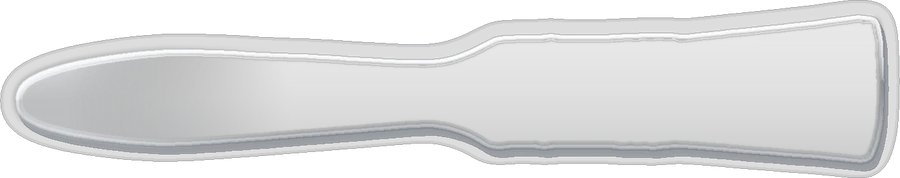
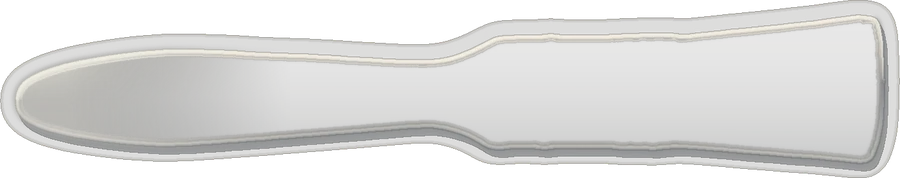
Blister: plastica e riflessi color crema invece che bianchi
La bolla attorno al pennello e i riflessi del blister prendono il crema
del sito (#F6F0E4): niente più contorno bianco dietro il pennello.

diff --git a/site/componenti/blister-shop.js b/site/componenti/blister-shop.js
@@ -69,7 +69,7 @@ a{display:block;color:inherit;text-decoration:none;outline:none;-webkit-user-dra
    passa sopra il fondo e il logo ma sotto le scritte, il prodotto e la plastica (che hanno i loro riflessi fermi) */
 :host(:not([chiaro])) .blister::after{display:none}   /* il riflesso che scorre resta solo sul cartoncino bianco */
 .blister::after{content:"";position:absolute;inset:0;z-index:0;pointer-events:none;
-  background:linear-gradient(105deg,rgba(20,24,30,0) 24%,rgba(20,24,30,.09) 35%,rgba(255,255,255,.62) 44%,rgba(255,255,255,.18) 49%,rgba(255,255,255,0) 57%) calc(50% + var(--gx) * 1.3) 0/220% 100% no-repeat}
+  background:linear-gradient(105deg,rgba(20,24,30,0) 24%,rgba(20,24,30,.09) 35%,rgba(246,240,228,.62) 44%,rgba(246,240,228,.18) 49%,rgba(246,240,228,0) 57%) calc(50% + var(--gx) * 1.3) 0/220% 100% no-repeat}
 .logo{position:absolute;z-index:0;right:-8px;top:26px;height:172px;aspect-ratio:553/518;background:color-mix(in oklab,var(--fondo) 80%,#F6F0E4);opacity:.75;
   -webkit-mask:var(--logo) 0 0/100% 100% no-repeat;mask:var(--logo) 0 0/100% 100% no-repeat}
 :host([chiaro]) .logo{background:#E9E1D0;opacity:1}
@@ -86,9 +86,9 @@ a{display:block;color:inherit;text-decoration:none;outline:none;-webkit-user-dra
 .pezzo .bolla{transform:translateX(clamp(-2px, var(--gx) * -.08, 2px));filter:drop-shadow(clamp(1px, 3px + var(--gx) * .1, 6px) 7px 7px rgba(0,0,0,.22))}
 .pezzo .riflesso{position:absolute;inset:0;transform:translateX(clamp(-5px, var(--gx) * -.2, 5px));pointer-events:none;mix-blend-mode:screen;opacity:.55;
   -webkit-mask:var(--prod) 0 0/100% 100% no-repeat;mask:var(--prod) 0 0/100% 100% no-repeat;
-  background:linear-gradient(100deg,rgba(255,255,255,0) 40%,rgba(255,255,255,.55) 47%,rgba(255,255,255,0) 54%) 30% 0/260% 100% no-repeat}
+  background:linear-gradient(100deg,rgba(246,240,228,0) 40%,rgba(246,240,228,.55) 47%,rgba(246,240,228,0) 54%) 30% 0/260% 100% no-repeat}
 .pezzo .lucido{position:absolute;inset:0;-webkit-mask:var(--bolla) 0 0/100% 100% no-repeat;mask:var(--bolla) 0 0/100% 100% no-repeat;
-  background:linear-gradient(100deg,rgba(255,255,255,0) 38%,rgba(255,255,255,.7) 46%,rgba(255,255,255,0) 52%,rgba(255,255,255,0) 60%,rgba(255,255,255,.35) 63%,rgba(255,255,255,0) 66%) 50% 0/240% 100% no-repeat}   /* fermo: non esce dalla bolla inclinando */
+  background:linear-gradient(100deg,rgba(246,240,228,0) 38%,rgba(246,240,228,.7) 46%,rgba(246,240,228,0) 52%,rgba(246,240,228,0) 60%,rgba(246,240,228,.35) 63%,rgba(246,240,228,0) 66%) 50% 0/240% 100% no-repeat}   /* fermo: non esce dalla bolla inclinando */
 .vai{position:absolute;z-index:3;left:16px;bottom:14px;display:inline-flex;align-items:center;gap:9px;font:700 15px/1 var(--f-testo,"Figtree",system-ui,sans-serif);letter-spacing:-.01em}
 .vai i{display:grid;place-items:center;width:26px;height:26px;border-radius:50%;background:#F6F0E4;color:var(--cs);transition:transform .3s var(--ease),background .3s var(--ease),color .3s var(--ease)}
 :host([chiaro]) .vai i{background:#15171C;color:#F6F0E4}
